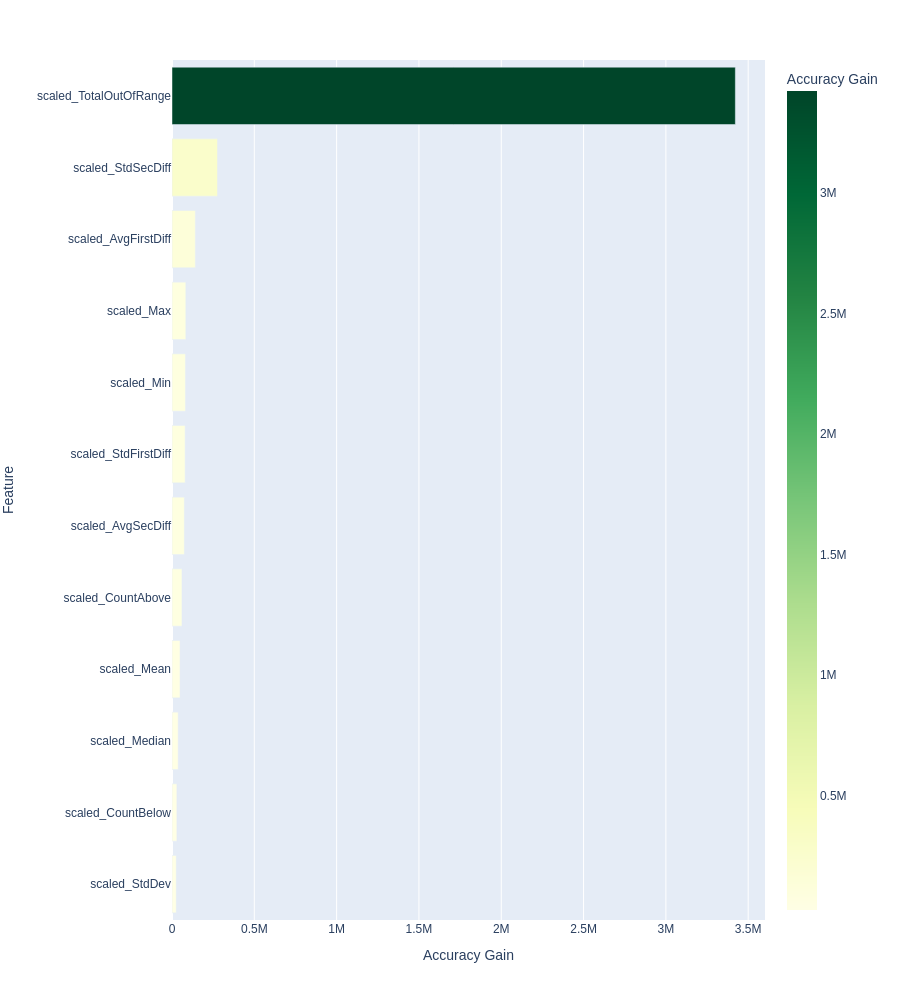
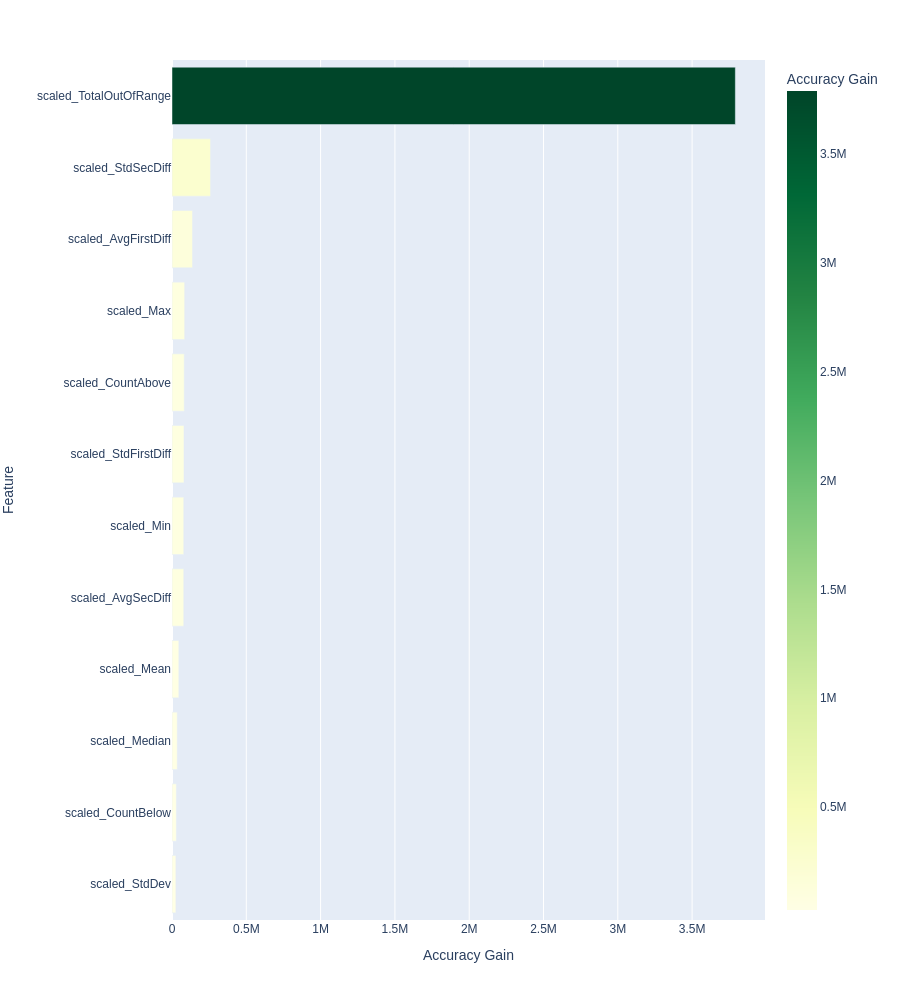
cleaned up model file, will start hyperaparameter optimization file

diff --git a/xgboost_regression_training.py b/xgboost_regression_training.py
@@ -1,75 +1,77 @@
-print("import 0")
-from Input_Variables.read_vars import random_seed
-print("import 1")
-
+################################ Libraries ################################
+from Input_Variables.read_vars import model_storage_location, random_seed, \
+                                      evaluation_metrics_output_storage, \
+                                      feature_importance_storage_location, \
+                                      overall_feature_importance_plot_location
 from Read_In_Data.read_data import Reading_Data
-print("import 2")
-from Data_Pipeline.encoding_scaling_pipeline import Feature_Transformations
-print("import 3")
+from Data_Pipeline.scaling_pipeline import Feature_Transformations
 from Model_Creation.pyspark_xgboost import Create_PySpark_XGBoost
-print("import 4")
-
+from Model_Predictions.pyspark_model_preds import Model_Predictions
+from Model_Evaluation.pyspark_model_eval import Evaluate_Model
+from Feature_Importance.model_feature_importance import Feature_Importance
+from Model_Plots.xgboost_classification_plots import XGBoost_Classification_Plot
 import os
-print("import 5. aaaand done!")
 
+################################ Read In Modules ################################
 reading_data=Reading_Data()
 feature_transformations=Feature_Transformations()
 create_pyspark_xgboost=Create_PySpark_XGBoost()
+model_predictions=Model_Predictions()
+evaluate_model=Evaluate_Model()
+feature_importance=Feature_Importance()
+xgboost_classification_plot=XGBoost_Classification_Plot()
 
-# training_files_directory=os.listdir('/cephfs/summary_stats/train')
-# training_files=[i for i in training_files_directory if not ('.crc' in i or 'SUCCESS' in i)]
 
+################################ Read In Data ################################
+# Training Summary Stats Data
 training_files=list(map(lambda x: os.path.join(os.path.abspath('/cephfs/summary_stats/train'), x),os.listdir('/cephfs/summary_stats/train')))
 training_files=[i for i in training_files if not ('.crc' in i or 'SUCCESS' in i)]
-training_files.remove('/cephfs/summary_stats/train/summary_stats_parquet_145_26.parquet')
 
-total_file_iteration=len(training_files)
-iteration=1
+# Testing Summary Stats Data
+test_files=list(map(lambda x: os.path.join(os.path.abspath('/cephfs/summary_stats/test'), x),os.listdir('/cephfs/summary_stats/test')))
+test_files=[i for i in test_files if not ('.crc' in i or 'SUCCESS' in i)]
 
-print(total_file_iteration)
+read_data=Reading_Data()
+summary_stats_train=read_data.read_in_all_summary_stats(file_list=training_files)
+summary_stats_train.show(2)
+print((summary_stats_train.count(), len(summary_stats_train.columns)))
 
-model_storage_location='/cephfs/Saved_Models/Summary_Stats_Model'
+summary_stats_test=read_data.read_in_all_summary_stats(file_list=test_files)
+summary_stats_test.show(2)
+print((summary_stats_test.count(), len(summary_stats_test.columns)))
 
-blank_interoplation_list=[]
 
-for file in training_files:
-    # Read in Summary Statistics
-    summary_stats=reading_data \
-        .read_in_pyspark_data_for_summary_stats(data_location=f'{file}')
-    
-    # Numerical Transformation Stages
-    training_numerical_stages=feature_transformations.numerical_scaling(df=summary_stats)
+################################ Stages: Scaling Using Custom Transformer ################################
+pipeline_transformation_stages=feature_transformations.numerical_scaling(df=training_files)
 
-    if iteration==1:
-        # XGBoost Model
-        xgboost_model=create_pyspark_xgboost \
-            .initial_training_xgboost_regression(ml_df=summary_stats,
-                                             stages=training_numerical_stages,
-                                             random_seed=random_seed)
-        
-    
-    else:
-        try:
-            xgboost_model=create_pyspark_xgboost \
-                .batch_training_xgboost_regression(ml_df=summary_stats, 
-                                                   stages=training_numerical_stages, 
-                                                   random_seed=random_seed, 
-                                                   past_model=xgboost_model)
-            
-            # if iteration%20 == 0 or iteration==total_file_iteration:
-            #     xgboost_model.write().overwrite().save(model_storage_location)
-            #     print('Saved Model')
-            # else:
-            #     None
-        except:
-            print(f'Failed {file}: {iteration}/{total_file_iteration}')
-            blank_interoplation_list.append(f'{file}')
-            iteration=iteration+1
-            continue
-            
-    print(f'Completed {file}: {iteration}/{total_file_iteration}')
-    iteration+=1
-    
-print(blank_interoplation_list)
-xgboost_model.write().overwrite().save(model_storage_location)
-print('Saved Model')
+
+################################ XGBoost Regression Model ################################
+create_pyspark_xgboost=Create_PySpark_XGBoost()
+xgboost_regression_model=create_pyspark_xgboost.initial_training_xgboost_regression(ml_df=summary_stats_train, 
+                                                                                    stages=pipeline_transformation_stages, 
+                                                                                    random_seed=random_seed,
+                                                                                    model_storage_location=model_storage_location)
+
+
+################################ Testing Predictions ################################
+testing_predictions=model_predictions.create_predictions_with_model(test_df=summary_stats_test, 
+                                                                    model=xgboost_regression_model)
+testing_predictions.show(10)
+
+
+################################ Model Evaluation ################################
+model_evaluation=evaluate_model.regression_evaluation(testing_predictions=testing_predictions, 
+                                                      eval_csv_location=evaluation_metrics_output_storage)
+model_evaluation.head()
+
+
+################################ Feature Importance ################################
+feature_importance_df=feature_importance \
+                            .feature_importance_accuracy_gain(xgboost_model=xgboost_regression_model, 
+                                                              feature_importance_storage_location=feature_importance_storage_location)
+feature_importance_df.head(10)
+
+
+################################ Feature Importance Plot ################################
+overall_feature_plot=xgboost_classification_plot.feature_overall_importance_plot(feature_importance_df=feature_importance_df,
+                                                                                 overall_importance_plot_location=overall_feature_importance_plot_location)

diff --git a/Model_Creation/pyspark_xgboost.py b/Model_Creation/pyspark_xgboost.py
@@ -1,4 +1,3 @@
-# from xgboost.spark import SparkXGBClassifier
 from xgboost.spark import SparkXGBRegressor
 from pyspark.ml import Pipeline
 
@@ -7,14 +6,7 @@ class Create_PySpark_XGBoost:
         self.features_col="features"
         self.label_name="target"
         
-    
-    def initial_training_xgboost_regression(self, ml_df, stages, random_seed):
-        # xgb_regression=SparkXGBRegressor(features_col=features_col, 
-        #                                   label_col=label_name,
-        #                                   num_workers=4,
-        #                                   random_state=random_seed,
-        #                                   use_gpu=True)
-        
+    def initial_training_xgboost_regression(self, ml_df, stages, random_seed, model_storage_location):        
         initial_xgb_regression=SparkXGBRegressor(features_col=self.features_col, 
                                                  label_col=self.label_name,
                                                  random_state=random_seed,
@@ -22,25 +14,11 @@ class Create_PySpark_XGBoost:
 
         stages.append(initial_xgb_regression)
         pipeline=Pipeline(stages=stages)
+        print('Model Created')
         
         model=pipeline.fit(ml_df)
         
-        # model.write().overwrite().save(model_storage_location)
+        model.write().overwrite().save(model_storage_location)
+        print(f'Model Saved to {model_storage_location}')
         
         return model
-    
-    
-    def batch_training_xgboost_regression(self, ml_df, stages, random_seed, past_model):
-        batch_xgb_regression=SparkXGBRegressor(features_col=self.features_col, 
-                                               label_col=self.label_name,
-                                               random_state=random_seed,
-                                               use_gpu=False,
-                                               xgb_model=past_model.stages[-1].get_booster())
-
-        stages.append(batch_xgb_regression)
-        pipeline=Pipeline(stages=stages)
-        new_model=pipeline.fit(ml_df)
-       
-        # new_model.write().overwrite().save(model_storage_location)
-        
-        return new_model

diff --git a/Data_Pipeline/scaling_pipeline.py b/Data_Pipeline/scaling_pipeline.py
@@ -1,0 +1,39 @@
+from pyspark.ml import Transformer
+from pyspark.ml.util import DefaultParamsReadable, DefaultParamsWritable
+from pyspark.sql import Window
+from pyspark.sql.functions import col, mean, stddev
+from pyspark.ml.feature import VectorAssembler
+
+class ColumnScaler(Transformer, DefaultParamsReadable, DefaultParamsWritable):
+    def _transform(self, df):
+        all_numerical=['Mean', 'StdDev', 'Median', 'Min', 'Max', 'AvgFirstDiff', 'AvgSecDiff', 
+                       'StdFirstDiff', 'StdSecDiff', 'CountAbove', 'CountBelow', 'TotalOutOfRange']
+        
+        for num_column in all_numerical:
+            input_col = f"{num_column}"
+            output_col = f"scaled_{num_column}"
+
+            w = Window.partitionBy('NumId')
+
+            mu = mean(input_col).over(w)
+            sigma = stddev(input_col).over(w)
+
+            df=df.withColumn(output_col, (col(input_col) - mu)/(sigma))
+            
+        return df
+
+
+class Feature_Transformations:    
+    def numerical_scaling(self, df):
+        all_numerical=['Mean', 'StdDev', 'Median', 'Min', 'Max', 'AvgFirstDiff', 'AvgSecDiff', 
+                       'StdFirstDiff', 'StdSecDiff', 'CountAbove', 'CountBelow', 'TotalOutOfRange']
+        
+        featureArr = [('scaled_' + f) for f in all_numerical]
+
+        columns_scaler=ColumnScaler()
+    
+        va2 = VectorAssembler(inputCols=featureArr, outputCol="features", handleInvalid='skip')
+
+        stages=[columns_scaler]+[va2]
+        
+        return stages

diff --git a/Read_In_Data/read_data.py b/Read_In_Data/read_data.py
@@ -41,12 +41,11 @@ class Reading_Data:
         # self.spark.stop()
         return pyspark_glucose_data
 
-
-    def read_in_pyspark_data_for_summary_stats(self, data_location):        
+    
+    def read_in_all_summary_stats(self, file_list):        
         summary_stats_df = self.spark.read \
-                               .format('parquet') \
-                               .load(data_location)
-        
+                               .parquet(*file_list)
+
         return summary_stats_df
     
     

diff --git a/Input_Variables/read_vars.py b/Input_Variables/read_vars.py
@@ -52,7 +52,3 @@ daily_stats_features_upper=input_vars['Daily_Stats_Features']['upper']
 ################################### ML Models ###################################
 model_storage_location=input_vars['ML_Models']['model_storage_location']
 random_seed=input_vars['ML_Models']['random_seed']
-
-
-################################### Time Series Lagged Features ###################################
-time_series_lag_values_created=input_vars['Time_Series_Lagged_Features']['Time_Series_Lag_Values_Created']
